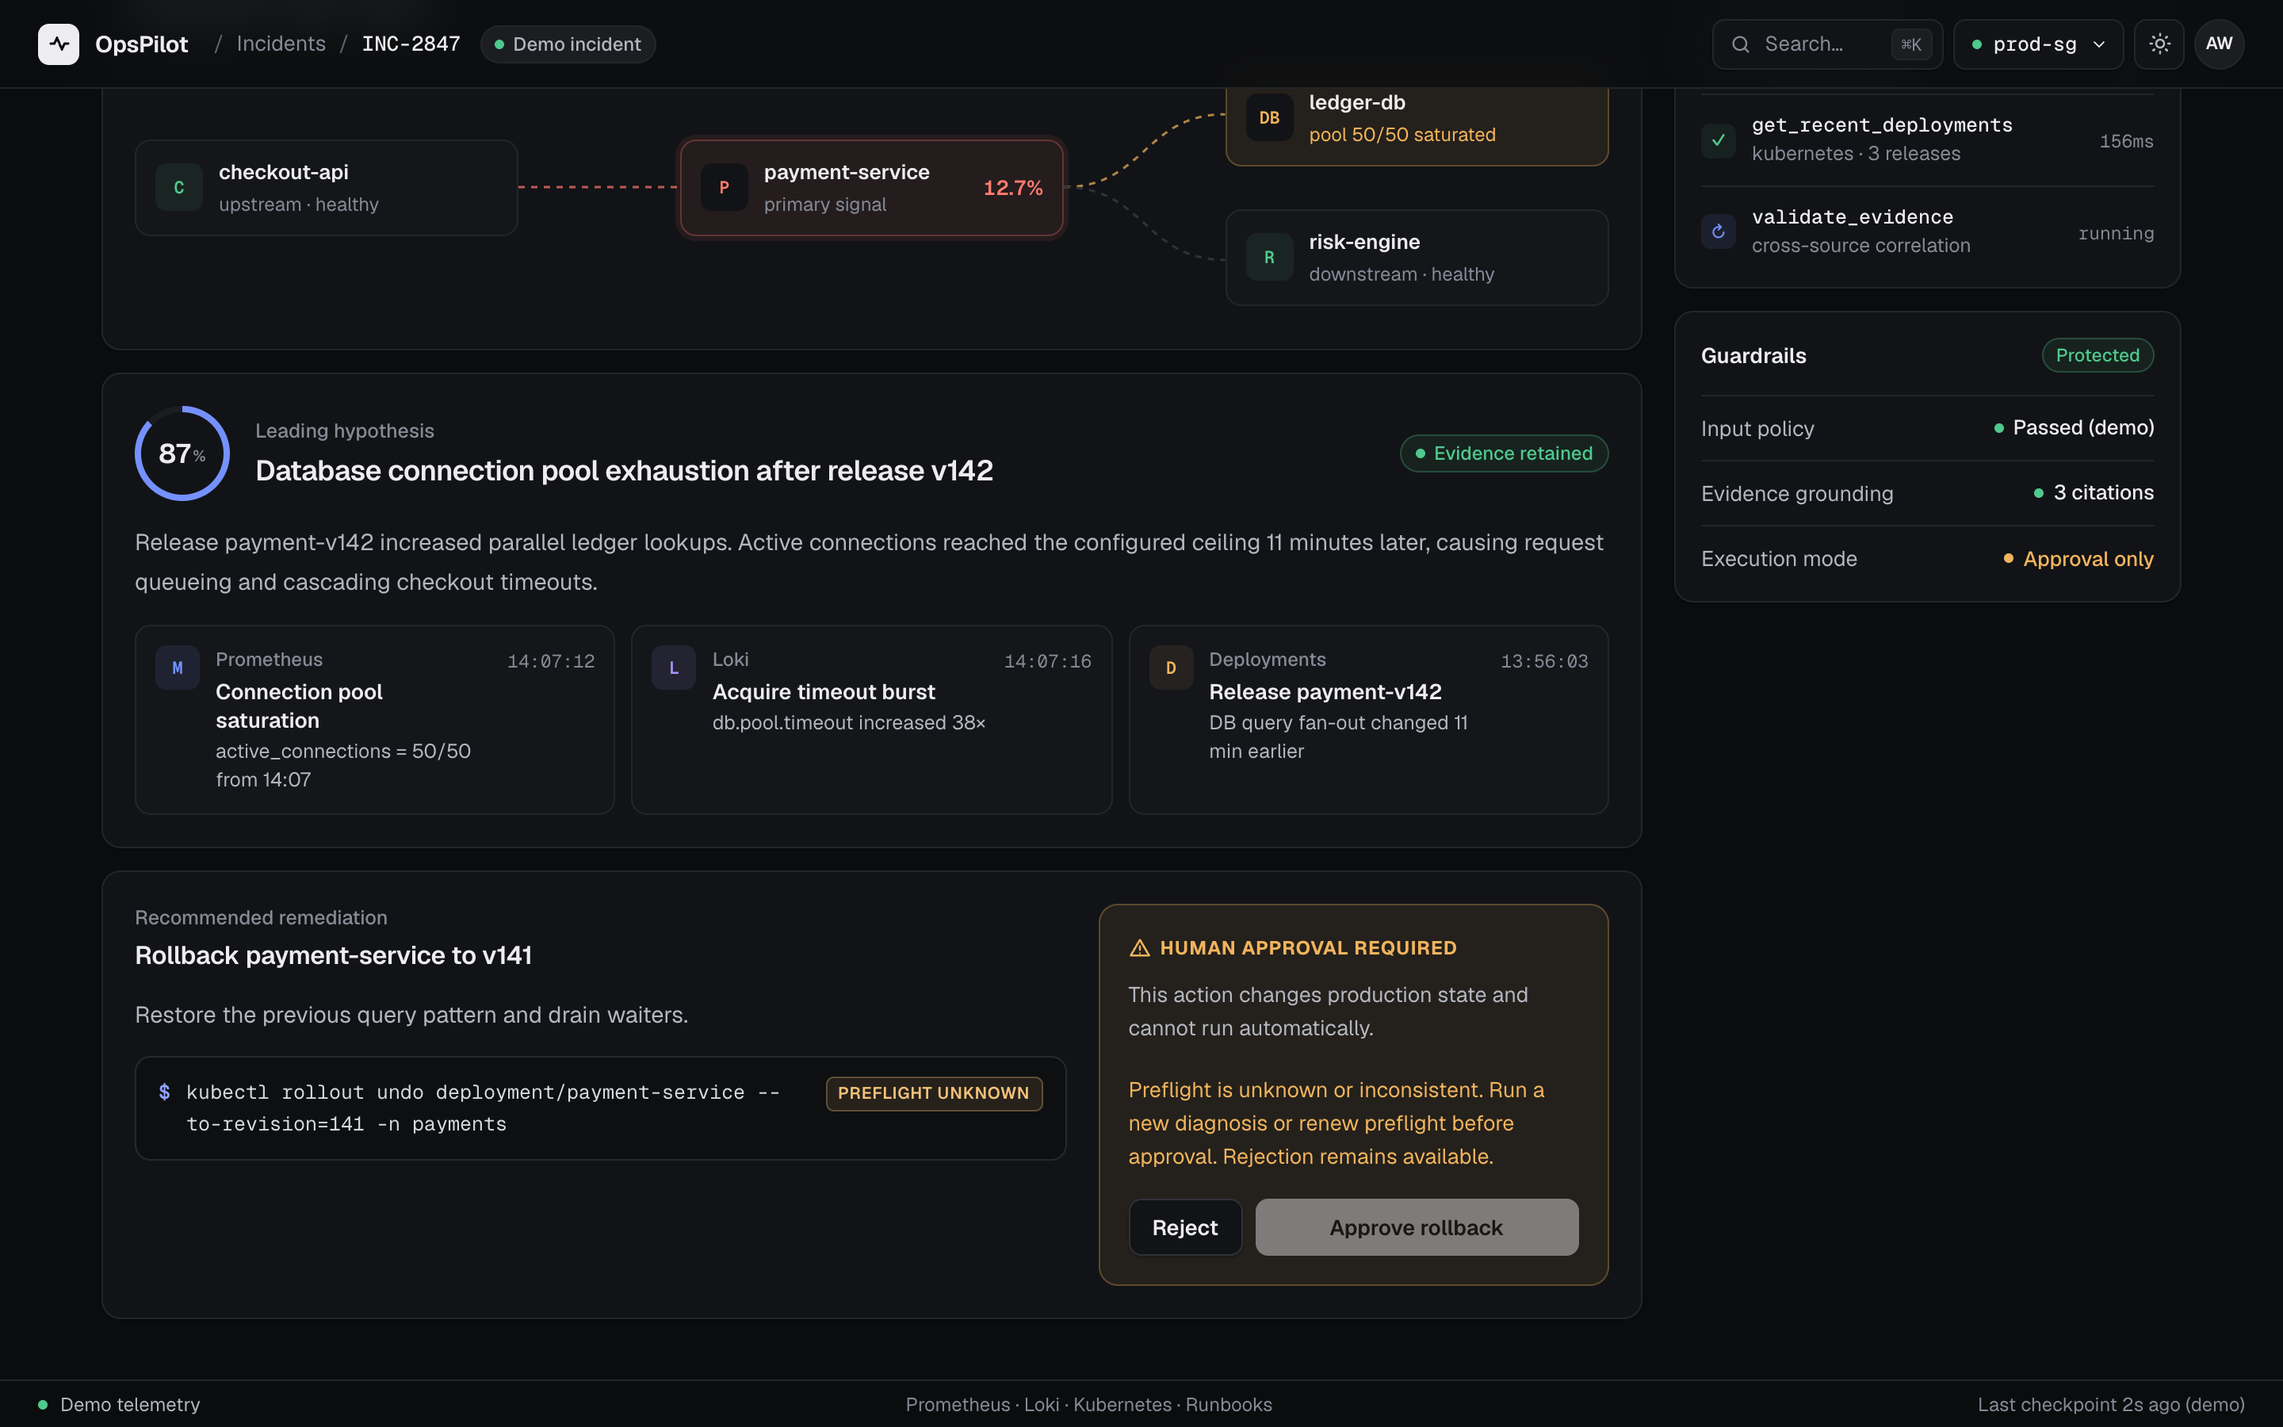
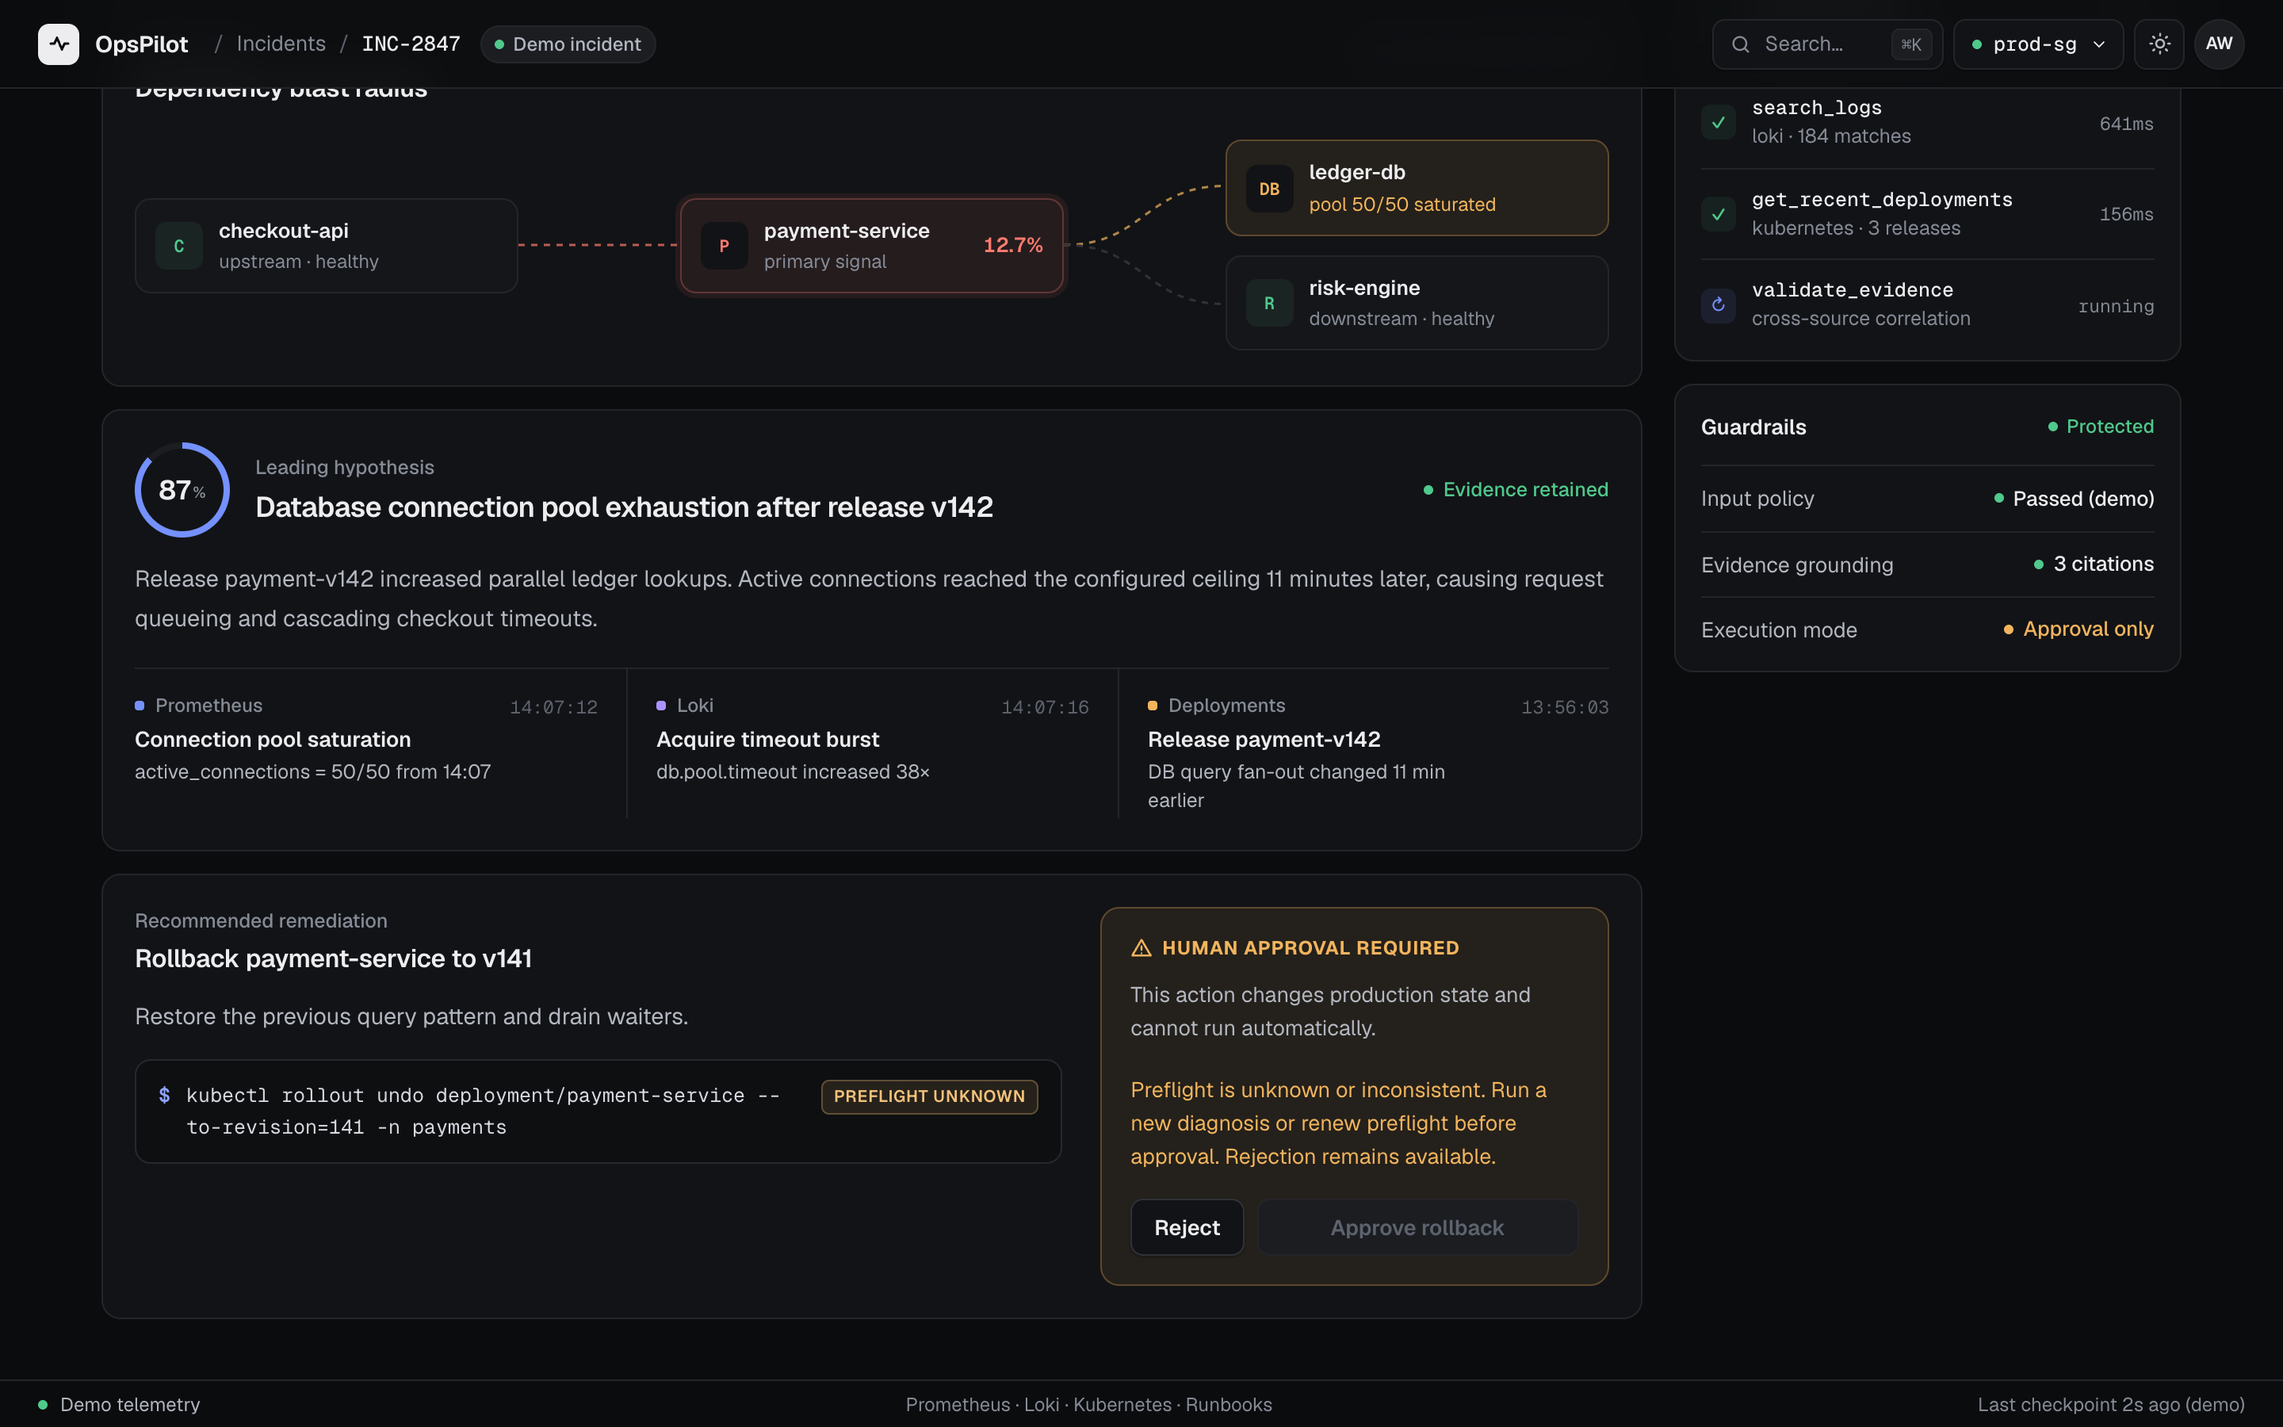
Refine console polish: quieter status, flatter panels
- Secondary statuses become a coloured dot and a word instead of pills
- Drop panel shadows; the collapsed connection row is a dashed outline
- Evidence items form one hairline-divided strip with source markers
- Tighten the service map and top-align the approval card
- Lighter disabled approve button; commands wrap at spaces
- Mobile: badge above the command, wrapping panel titles, smaller gaps
- Refresh README screenshots and og.png

diff --git a/app/globals.css b/app/globals.css
@@ -241,7 +241,14 @@ kbd { font-size: 11px; }
 /* Shared surfaces                                                       */
 /* ==================================================================== */
 .question-box, .connection-panel, .metric-card, .panel, .side-panel {
-  background: var(--surface); border: 1px solid var(--line); border-radius: var(--radius); box-shadow: var(--shadow-sm);
+  background: var(--surface); border: 1px solid var(--line); border-radius: var(--radius);
+}
+
+/* Quiet status text: a coloured dot and a word, not another pill. */
+.small-status, .validated, .side-title b, .connection-state {
+  flex: none; display: inline-flex; align-items: center; gap: 6px; white-space: nowrap;
+  height: auto; padding: 0; border: 0; border-radius: 0; background: none;
+  color: var(--fg-3); font-size: 12.5px; font-weight: 500; font-variant-numeric: tabular-nums;
 }
 
 /* Ask box ----------------------------------------------------------- */
@@ -282,23 +289,20 @@ kbd { font-size: 11px; }
 }
 .connection-panel > summary::-webkit-details-marker { display: none; }
 .connection-panel > summary:hover .connection-title strong { color: var(--fg); }
+.connection-panel:not([open]) { background: transparent; border-style: dashed; border-color: var(--line-strong); }
+.connection-panel:not([open]):hover { background: var(--surface); border-style: solid; }
 .connection-icon {
   flex: none; width: 28px; height: 28px; border-radius: 7px; display: grid; place-items: center;
-  color: var(--fg-3); background: var(--surface-3); border: 1px solid var(--line);
+  color: var(--fg-3); background: var(--surface-3);
 }
 .connection-title { flex: 1; min-width: 0; display: flex; flex-direction: column; }
 .connection-title strong { color: var(--fg-2); font-size: 13.5px; font-weight: 550; transition: color .15s; }
 .connection-title small { color: var(--fg-3); font-size: 12.5px; white-space: nowrap; overflow: hidden; text-overflow: ellipsis; }
 .connection-title code { color: var(--fg-2); }
-.connection-state {
-  flex: none; display: inline-flex; align-items: center; gap: 6px; height: 22px; padding: 0 8px;
-  border-radius: 999px; font-size: 12px; font-weight: 500;
-  color: var(--fg-2); background: var(--surface-3); border: 1px solid var(--line);
-}
 .connection-state::before { content: ""; width: 6px; height: 6px; border-radius: 50%; background: var(--fg-4); }
-.connection-state.ok { color: var(--ok); background: var(--ok-soft); border-color: var(--ok-line); }
+.connection-state.ok { color: var(--ok); }
 .connection-state.ok::before { background: var(--ok); }
-.connection-state.warn { color: var(--warn); background: var(--warn-soft); border-color: var(--warn-line); }
+.connection-state.warn { color: var(--warn); }
 .connection-state.warn::before { background: var(--warn); }
 .connection-state.idle::before { background: var(--accent); }
 .chevron { flex: none; color: var(--fg-4); transition: transform .2s; }
@@ -376,11 +380,6 @@ kbd { font-size: 11px; }
 .panel-title h2, .hypothesis-top h2, .remediation-panel h2, .trace-panel h2 {
   margin: 3px 0 0; color: var(--fg); font-size: 16px; font-weight: 600; letter-spacing: -.012em; line-height: 1.35;
 }
-.small-status {
-  flex: none; display: inline-flex; align-items: center; height: 24px; padding: 0 9px; white-space: nowrap;
-  border-radius: 999px; color: var(--fg-2); background: var(--surface-3); border: 1px solid var(--line);
-  font-size: 12px; font-weight: 500; font-variant-numeric: tabular-nums;
-}
 .empty-state { color: var(--fg-3); }
 .inline-alert { color: var(--crit) !important; background: var(--crit-soft); border: 1px solid var(--crit-line); border-radius: var(--radius-sm); padding: 10px 12px; }
 
@@ -396,8 +395,8 @@ kbd { font-size: 11px; }
   display: inline-flex; align-items: center; gap: 4px; height: 22px; padding: 0 7px;
   border-radius: 6px; font-size: 12px; font-weight: 600; font-variant-numeric: tabular-nums;
 }
-.delta.warning { color: var(--warn); background: var(--warn-soft); border: 1px solid var(--warn-line); }
-.delta.critical { color: var(--crit); background: var(--crit-soft); border: 1px solid var(--crit-line); }
+.delta.warning { color: var(--warn); background: var(--warn-soft); }
+.delta.critical { color: var(--crit); background: var(--crit-soft); }
 .metric-chart {
   position: relative; height: 92px; margin-top: 18px; border-bottom: 1px solid var(--line-strong);
   background: repeating-linear-gradient(to bottom, transparent 0 22px, var(--chart-grid) 22px 23px);
@@ -414,11 +413,11 @@ kbd { font-size: 11px; }
 
 /* Service map (demo) ------------------------------------------------ */
 .service-map {
-  display: grid; align-items: stretch; min-height: 168px; padding: 4px 0 0;
+  display: grid; align-items: stretch; padding: 8px 0 2px;
   grid-template-columns: minmax(0, 1fr) minmax(28px, .42fr) minmax(0, 1fr) minmax(28px, .42fr) minmax(0, 1fr);
 }
 .map-column { display: flex; flex-direction: column; justify-content: center; min-width: 0; }
-.map-column.stacked { justify-content: space-around; gap: 12px; }
+.map-column.stacked { justify-content: center; gap: 12px; }
 .map-link { width: 100%; height: 100%; overflow: visible; }
 .map-link .flow { fill: none; stroke: var(--line-strong); stroke-width: 1.5; stroke-dasharray: 4 4; animation: dash 1s linear infinite; }
 .map-link .flow.critical { stroke: var(--crit); opacity: .7; }
@@ -478,30 +477,30 @@ kbd { font-size: 11px; }
 .confidence-ring strong, .confidence-ring span { position: relative; }
 .confidence-ring strong { color: var(--fg) !important; font-size: 17px; font-weight: 650; letter-spacing: -.03em; font-variant-numeric: tabular-nums; }
 .confidence-ring span { margin: 3px 0 0 1px; font-size: 10px; font-weight: 600; }
-.validated {
-  flex: none; display: inline-flex; align-items: center; gap: 6px; height: 24px; padding: 0 9px;
-  border-radius: 999px; font-size: 12px; font-weight: 500;
-  color: var(--ok); background: var(--ok-soft); border: 1px solid var(--ok-line);
-}
+.validated { color: var(--ok); }
 .validated::before { content: ""; width: 6px; height: 6px; border-radius: 50%; background: currentColor; }
-.validated.warn { color: var(--warn); background: var(--warn-soft); border-color: var(--warn-line); }
+.validated.warn { color: var(--warn); }
 .hypothesis-panel > p, .remediation-copy > p { margin: 14px 0; color: var(--fg-2); font-size: 14.5px; line-height: 1.7; }
-.evidence-list { display: grid; grid-template-columns: repeat(3, minmax(0, 1fr)); gap: 10px; margin-top: 4px; }
+
+/* Evidence: one hairline-divided strip instead of three nested cards. */
+.evidence-list {
+  display: grid; grid-template-columns: repeat(3, minmax(0, 1fr)); margin-top: 18px;
+  border-top: 1px solid var(--line);
+}
 .evidence-list article {
-  display: grid; grid-template-columns: auto minmax(0, 1fr) auto; gap: 10px; align-items: start;
-  padding: 12px; background: var(--surface-2); border: 1px solid var(--line); border-radius: 10px;
-  transition: border-color .15s, background .15s;
+  --kind: var(--accent);
+  display: grid; grid-template-columns: minmax(0, 1fr) auto; gap: 10px; align-items: start;
+  padding: 14px 18px 2px; border-left: 1px solid var(--line);
 }
-.evidence-list article:hover { border-color: var(--line-strong); background: var(--surface); }
-.evidence-list article > i {
-  width: 28px; height: 28px; border-radius: 7px; display: grid; place-items: center;
-  background: var(--accent-soft); color: var(--accent); font: 600 11px var(--mono); font-style: normal;
-}
-.evidence-list article[data-kind="L"] > i { background: var(--violet-soft); color: var(--violet); }
-.evidence-list article[data-kind="D"] > i { background: var(--warn-soft); color: var(--warn); }
-.evidence-list article div { display: flex; flex-direction: column; gap: 2px; min-width: 0; }
-.evidence-list article span { color: var(--fg-3); font-size: 12px; font-weight: 500; }
-.evidence-list time { color: var(--fg-3); font-size: 11.5px; padding-top: 1px; }
+.evidence-list article:first-child { padding-left: 0; border-left: 0; }
+.evidence-list article:last-child { padding-right: 0; }
+.evidence-list article[data-kind="L"] { --kind: var(--violet); }
+.evidence-list article[data-kind="D"] { --kind: var(--warn); }
+.evidence-list article > i { display: none; }
+.evidence-list article div { display: flex; flex-direction: column; gap: 3px; min-width: 0; }
+.evidence-list article span { display: inline-flex; align-items: center; gap: 7px; color: var(--fg-3); font-size: 12px; font-weight: 500; }
+.evidence-list article span::before { content: ""; width: 6px; height: 6px; border-radius: 2px; background: var(--kind); }
+.evidence-list time { color: var(--fg-4); font-size: 11.5px; padding-top: 1px; font-variant-numeric: tabular-nums; }
 .evidence-list article strong { color: var(--fg); font-size: 13.5px; font-weight: 600; line-height: 1.35; overflow-wrap: anywhere; }
 .evidence-list article small {
   color: var(--fg-2); font-size: 12.5px; line-height: 1.45;
@@ -530,21 +529,21 @@ kbd { font-size: 11px; }
 }
 
 /* Remediation ------------------------------------------------------- */
-.remediation-panel { display: grid; grid-template-columns: minmax(0, 1.55fr) minmax(260px, .85fr); gap: 20px; align-items: stretch; }
+.remediation-panel { display: grid; grid-template-columns: minmax(0, 1.55fr) minmax(260px, .85fr); gap: 24px; align-items: start; }
 .remediation-copy, .approval-card { min-width: 0; }
 .command-preview {
   display: flex; align-items: flex-start; gap: 10px; min-width: 0; padding: 12px 14px;
   background: var(--code-bg); border: 1px solid var(--code-line); border-radius: 10px;
 }
 .command-preview > span { color: #8ea4ff; font-family: var(--mono); font-weight: 600; line-height: 1.6; font-size: 12.5px; }
-.command-preview code { flex: 1; min-width: 0; color: var(--code-fg); background: none; border: 0; padding: 0; font-size: 12.5px; line-height: 1.6; overflow-wrap: anywhere; }
+.command-preview code { flex: 1; min-width: 0; color: var(--code-fg); background: none; border: 0; padding: 0; font-size: 12.5px; line-height: 1.6; overflow-wrap: break-word; }
 .command-preview b {
   margin-left: auto; white-space: nowrap; padding: 2px 7px; border-radius: 5px;
   color: #f3c27a; background: rgba(243, 194, 122, .1); border: 1px solid rgba(243, 194, 122, .28);
   font-size: 10.5px; font-weight: 600; letter-spacing: .04em;
 }
 .approval-card {
-  display: flex; flex-direction: column; justify-content: center; gap: 2px; padding: 18px;
+  display: flex; flex-direction: column; gap: 2px; padding: 16px 18px 18px;
   border-radius: var(--radius); background: var(--warn-soft); border: 1px solid var(--warn-line);
 }
 .approval-card > span { display: inline-flex; align-items: center; gap: 6px; color: var(--warn); font-size: 12px; font-weight: 700; letter-spacing: .04em; }
@@ -556,6 +555,7 @@ kbd { font-size: 11px; }
 .reject-button:not(:disabled):hover { color: var(--crit); border-color: var(--crit-line); }
 .approve-button { flex: 1; color: var(--primary-fg); background: var(--primary-bg); border: 1px solid var(--primary-bg); }
 .approve-button:not(:disabled):hover { opacity: .88; }
+.approval-card button:disabled { opacity: 1; box-shadow: none; color: var(--fg-4); background: var(--surface-3); border-color: var(--line); }
 .decision { flex-direction: column; align-items: flex-start !important; gap: 2px !important; margin: 0 !important; }
 .decision strong { color: var(--fg); font-size: 15px; }
 .decision p { margin: 4px 0; }
@@ -629,13 +629,10 @@ kbd { font-size: 11px; }
 .side-panel { padding: 16px; }
 .side-title { display: flex; align-items: center; justify-content: space-between; gap: 10px; margin-bottom: 14px; white-space: nowrap; }
 .side-title > span { color: var(--fg); font-size: 13.5px; font-weight: 600; }
-.side-title b {
-  display: inline-flex; align-items: center; gap: 6px; height: 22px; padding: 0 8px; border-radius: 999px;
-  color: var(--accent); background: var(--accent-soft); border: 1px solid var(--accent-line);
-  font-size: 11.5px; font-weight: 500; text-transform: capitalize;
-}
+.side-title b { color: var(--accent); font-size: 12px; text-transform: capitalize; }
 .side-title b i { width: 6px; height: 6px; border-radius: 50%; background: currentColor; animation: breathe 1.6s ease-in-out infinite; }
-.side-title b.protected { color: var(--ok); background: var(--ok-soft); border-color: var(--ok-line); }
+.side-title b.protected { color: var(--ok); }
+.side-title b.protected::before { content: ""; width: 6px; height: 6px; border-radius: 50%; background: currentColor; }
 .side-title button { padding: 0; border: 0; background: none; color: var(--accent); font-size: 12.5px; font-weight: 500; }
 .side-title button:hover { text-decoration: underline; }
 
@@ -702,6 +699,8 @@ footer span:first-child { display: flex; align-items: center; gap: 8px; color: v
 /* ==================================================================== */
 @media (max-width: 1100px) {
   .workspace { grid-template-columns: minmax(0, 1fr); }
+  .main-column { padding-bottom: 0; }
+  .side-column { padding-bottom: 32px; }
   .side-column { display: grid; grid-template-columns: 1fr 1fr; }
   .guardrail-panel { grid-column: span 2; }
 }
@@ -728,13 +727,18 @@ footer span:first-child { display: flex; align-items: center; gap: 8px; color: v
   .metrics-grid, .evidence-list, .remediation-panel, .side-column { grid-template-columns: minmax(0, 1fr); }
   .panel.remediation-panel { grid-template-columns: minmax(0, 1fr); }
   .guardrail-panel { grid-column: span 1; }
+  .evidence-list article, .evidence-list article:first-child { padding: 12px 0; border-left: 0; }
+  .evidence-list article + article { border-top: 1px solid var(--line); }
   .metric-heading strong { font-size: 26px; }
   .service-map { grid-template-columns: minmax(0, 1fr); }
   .map-link { justify-self: center; width: 2px; height: 22px; overflow: hidden; border-left: 1px dashed var(--line-strong); }
   .map-link path { display: none; }
   .map-column.stacked { gap: 8px; }
   .command-preview { flex-wrap: wrap; }
-  .command-preview code { min-width: 0; white-space: normal; overflow-wrap: anywhere; }
+  .command-preview code { flex-basis: calc(100% - 24px); min-width: 0; white-space: normal; overflow-wrap: break-word; }
+  .command-preview b { order: -1; margin: 0 100% 6px 0; }
+  .panel-title { flex-wrap: wrap; }
+  .panel-title .small-status { order: 2; flex-basis: 100%; }
   .question-box { padding: 12px; }
   .question-box button kbd { display: none; }
   .hypothesis-top { flex-wrap: wrap; }
